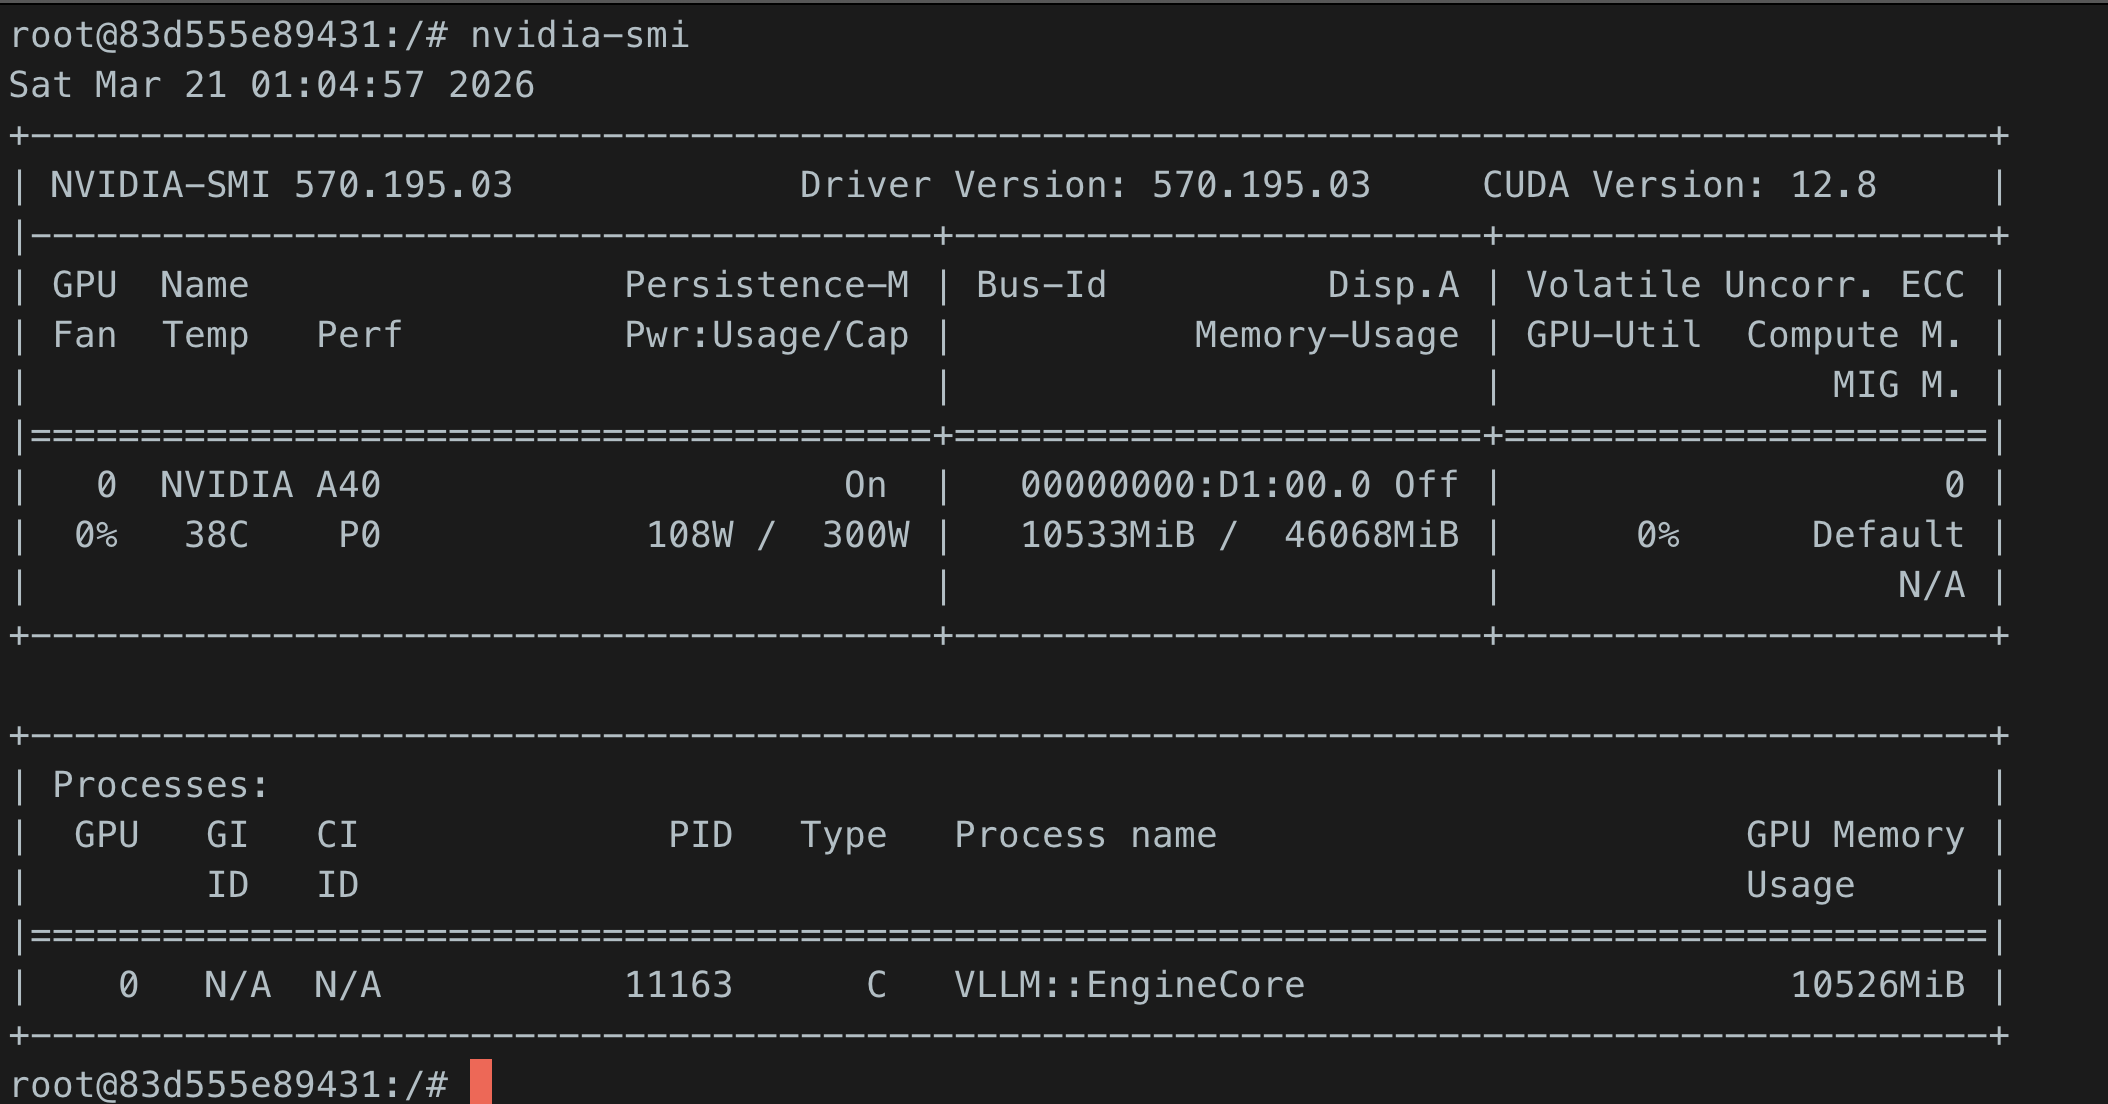
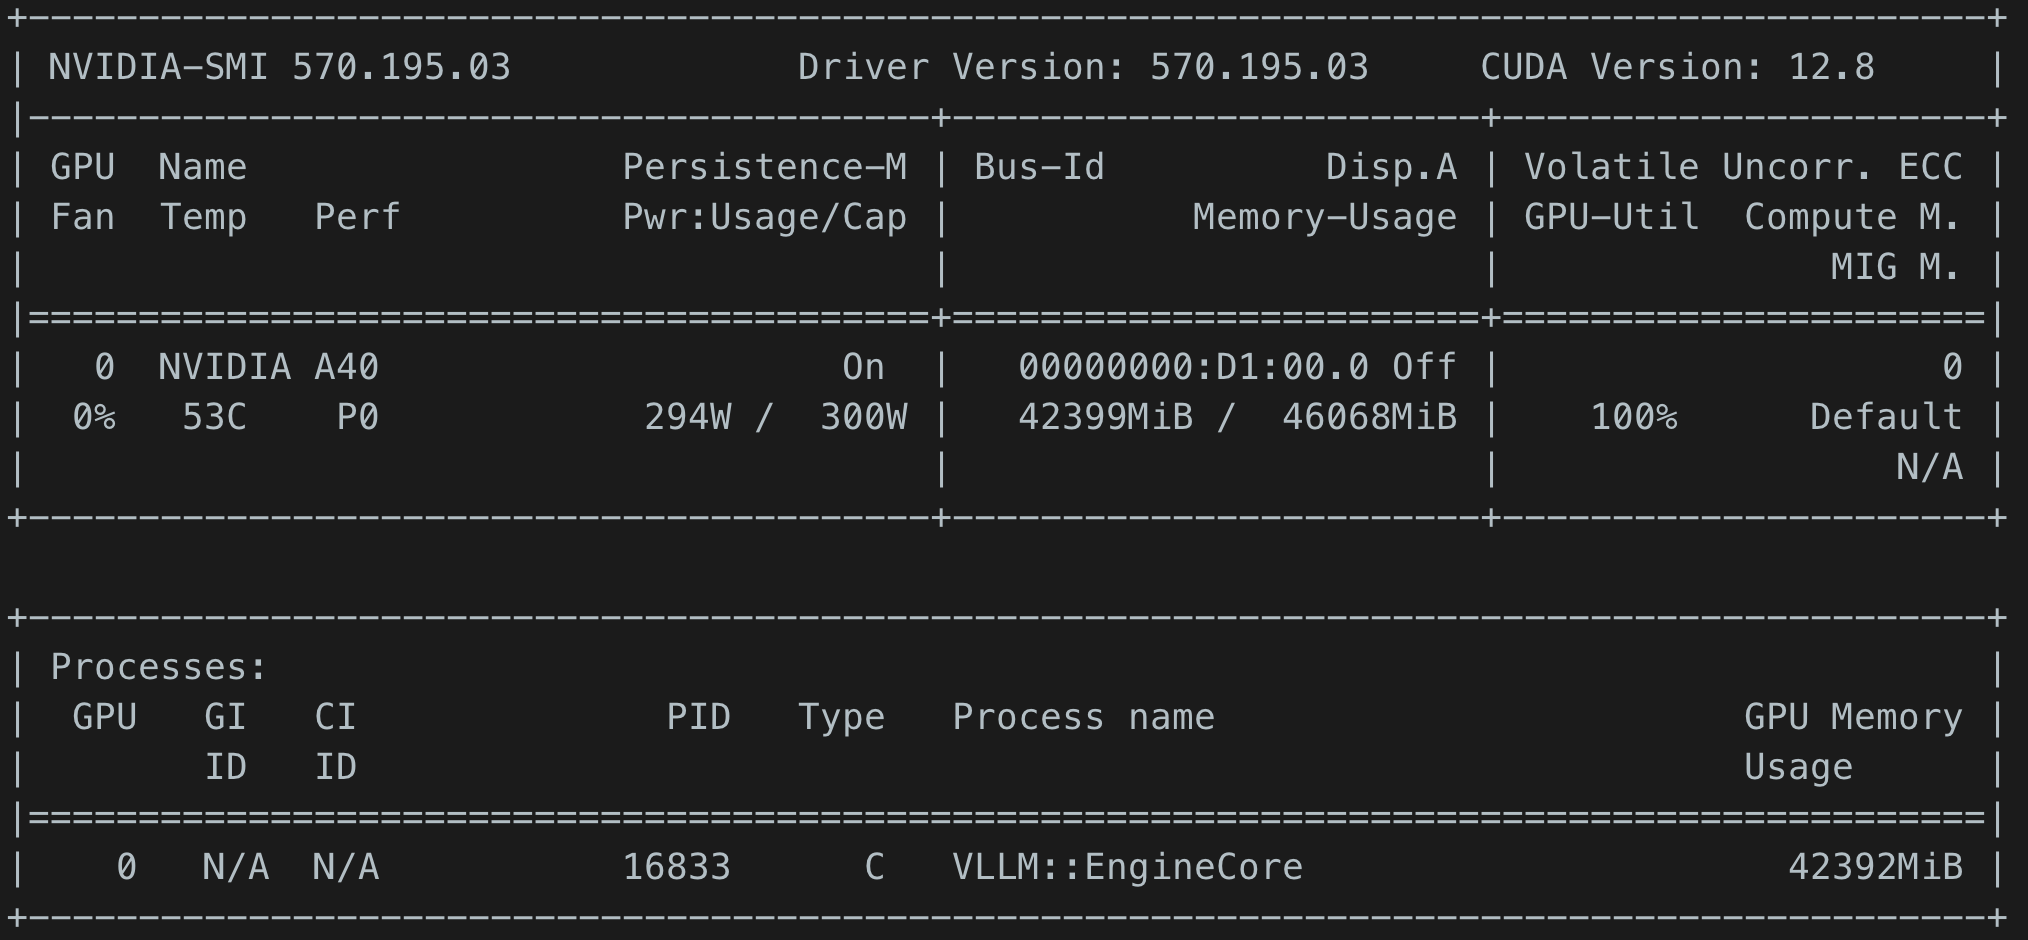
Document : 이미지 잘못 업로드된 부분 수정

diff --git a/_posts/2026-03-21-vllm-benchmark.md b/_posts/2026-03-21-vllm-benchmark.md
@@ -98,42 +98,67 @@ PagedAttention (Dynamic Paging):
 | max-model-len | 4096 |
 | gpu-memory-utilization | 0.9 |
 
-![NVIDIA A40 GPU nvidia-smi](/assets/img/qwen2.5-7B-nvidia-smi.png)
-*▲ nvidia-smi로 확인한 A40 48GB GPU 정보. VRAM 46GB 사용 가능*
-
 ### 2.2 FP16 서빙
-
 ```bash
 python -m vllm.entrypoints.openai.api_server \
   --model Qwen/Qwen2.5-7B-Instruct \
   --max-model-len 4096 \
-  --gpu-memory-utilization 0.9 \
+  --gpu-memory-utilization 0.5 \
   --port 8000
 ```
 
-서버 구동 후 `nvidia-smi`를 확인하면 **약 41.8GB / 46GB**를 사용한다. 모델 가중치 자체는 약 14GB이지만, vLLM이 `--gpu-memory-utilization 0.9` 설정에 따라 **나머지 27GB를 KV Cache로 미리 예약**한 것이다. 이게 PagedAttention이 작동하는 방식이다.
-
-![FP16 서빙 nvidia-smi](/assets/img/qwen2.5-7B.png)
+![FP16 서빙 모델](/assets/img/qwen2.5-7B.png)
 *▲ FP16 모델 로딩 후 nvidia-smi. 모델 가중치 14GB + KV Cache 예약으로 약 41.8GB 사용*
 
-### 2.3 AWQ INT4 서빙
+![NVIDIA A40 GPU nvidia-smi](/assets/img/qwen2.5-7B-nvidia-smi.png)
+*▲ nvidia-smi로 확인한 A40 48GB GPU 정보. VRAM 46GB 사용 가능*
+
+서버 구동 후 `nvidia-smi`를 확인하면 **약 41.8GB / 46GB**를 사용한다. 모델 가중치 자체는 약 14GB이지만, vLLM이 `--gpu-memory-utilization 0.5` 설정에 따라 **나머지 27GB를 KV Cache로 미리 예약**한 것이다. 이게 PagedAttention이 작동하는 방식이다.
+
+### 2.3 FP16 모델 리소스
 
 ```bash
-python -m vllm.entrypoints.openai.api_server \
-  --model Qwen/Qwen2.5-7B-Instruct-AWQ \
-  --quantization awq \
-  --max-model-len 4096 \
-  --gpu-memory-utilization 0.9 \
-  --port 8000
+python -c "
+import torch
+from transformers import AutoModelForCausalLM
+print('=== FP16 모델 로딩 ===')
+model = AutoModelForCausalLM.from_pretrained(
+    '/workspace/models/qwen2.5-7b',
+    torch_dtype=torch.float16,
+    device_map='auto'
+)
+mem = torch.cuda.memory_allocated() / 1e9
+print(f'FP16 GPU 메모리: {mem:.1f}GB')
+del model
+torch.cuda.empty_cache()
+"
 ```
 
-![AWQ INT4 서빙 서버 기동](/assets/img/qwen2.5-7B-awq.png)
-*▲ AWQ INT4 모델 서버 기동 로그. quantization=awq 옵션으로 4bit 양자화 모델 로딩*
+![FP16 모델 GPU 메모리 사용량](/assets/img/fp16-model.png)
+*▲ FP16 모델 로딩 시 GPU 메모리 사용량. Qwen2.5-7B 전체 가중치가 약 14GB를 차지*
 
-![AWQ INT4 서빙 nvidia-smi](/assets/img/qwen2.5-7B-awq-nvidia-smi.png)
-*▲ AWQ 모델 로딩 후 nvidia-smi. 모델 가중치는 약 4.5GB로 줄었지만 KV Cache 예약으로 총 사용량은 유사*
+### 2.4 AWQ INT4 모델 리소스
 
-### 2.4 단일 요청 성능 비교
+```bash
+python -c "
+import torch
+from transformers import AutoModelForCausalLM, BitsAndBytesConfig
+print('=== AWQ 4bit 모델 로딩 ===')
+bnb = BitsAndBytesConfig(load_in_4bit=True, bnb_4bit_quant_type='nf4', bnb_4bit_compute_dtype=torch.float16)
+model = AutoModelForCausalLM.from_pretrained(
+    '/workspace/models/qwen2.5-7b',
+    quantization_config=bnb,
+    device_map='auto'
+)
+mem = torch.cuda.memory_allocated() / 1e9
+print(f'4bit GPU 메모리: {mem:.1f}GB')
+"
+```
+
+![AWQ 4bit 모델 GPU 메모리 사용량](/assets/img/awq-4q-model.png)
+*▲ AWQ 4bit 모델 로딩 시 GPU 메모리 사용량. 양자화로 가중치가 약 4.5GB로 줄어 KV Cache 여유 공간 확보*
+
+### 2.5 단일 요청 성능 비교
 
 TTFT(Time To First Token)와 TPS(Tokens Per Second)를 측정했다.
 
@@ -160,7 +185,7 @@ for line in response.iter_lines():
 ![AWQ INT4 벤치마크 결과](/assets/img/qwen2.5-7B-script-result-awq.png)
 *▲ AWQ INT4 단일 요청 벤치마크 결과. TTFT 99ms, TPS 15.2로 dequantization 오버헤드 확인*
 
-### 2.5 "양자화하면 무조건 빠르다"는 틀렸다
+### 2.6 "양자화하면 무조건 빠르다"는 틀렸다
 
 **A40 48GB처럼 VRAM이 충분한 환경에서는 FP16이 오히려 빠르다.** AWQ INT4는 추론 시 매 연산마다 INT4 → FP16 dequantization 변환이 발생하고, 이 오버헤드가 메모리 절약 이점을 상쇄한다.
 
@@ -226,7 +251,7 @@ for n_users in [1, 10, 50]:
 
 동시 요청 처리 중 `nvidia-smi`를 확인하면 GPU Utilization이 높게 유지되는 것을 볼 수 있다. Continuous Batching이 GPU를 쉬지 않게 만드는 것이다.
 
-![동시 요청 중 GPU 사용량](/assets/img/benchmark-cocurrent-nvidia-smi.png)
+![동시 요청 중 GPU 사용량](/assets/img/benchmark-cocurrent-nvidia-smi![img.png](img.png).png)
 *▲ 동시 50명 요청 처리 중 nvidia-smi. GPU Utilization이 높게 유지되며 배칭 효과를 확인*
 
 **Static Batching (max-num-seqs=1)**
@@ -280,7 +305,7 @@ vllm:num_requests_waiting  = 0.0    ← 대기열 없음
 vllm:num_preemptions_total = 0.0    ← preemption 없음
 ```
 
-**제한된 KV Cache (gpu-memory-utilization=0.4, 200명)**
+**제한된 KV Cache (gpu-memory-utilization=0.2, 200명)**
 
 ```
 vllm:num_requests_running  = 184.0  ← 200개 중 184개만 처리 가능
